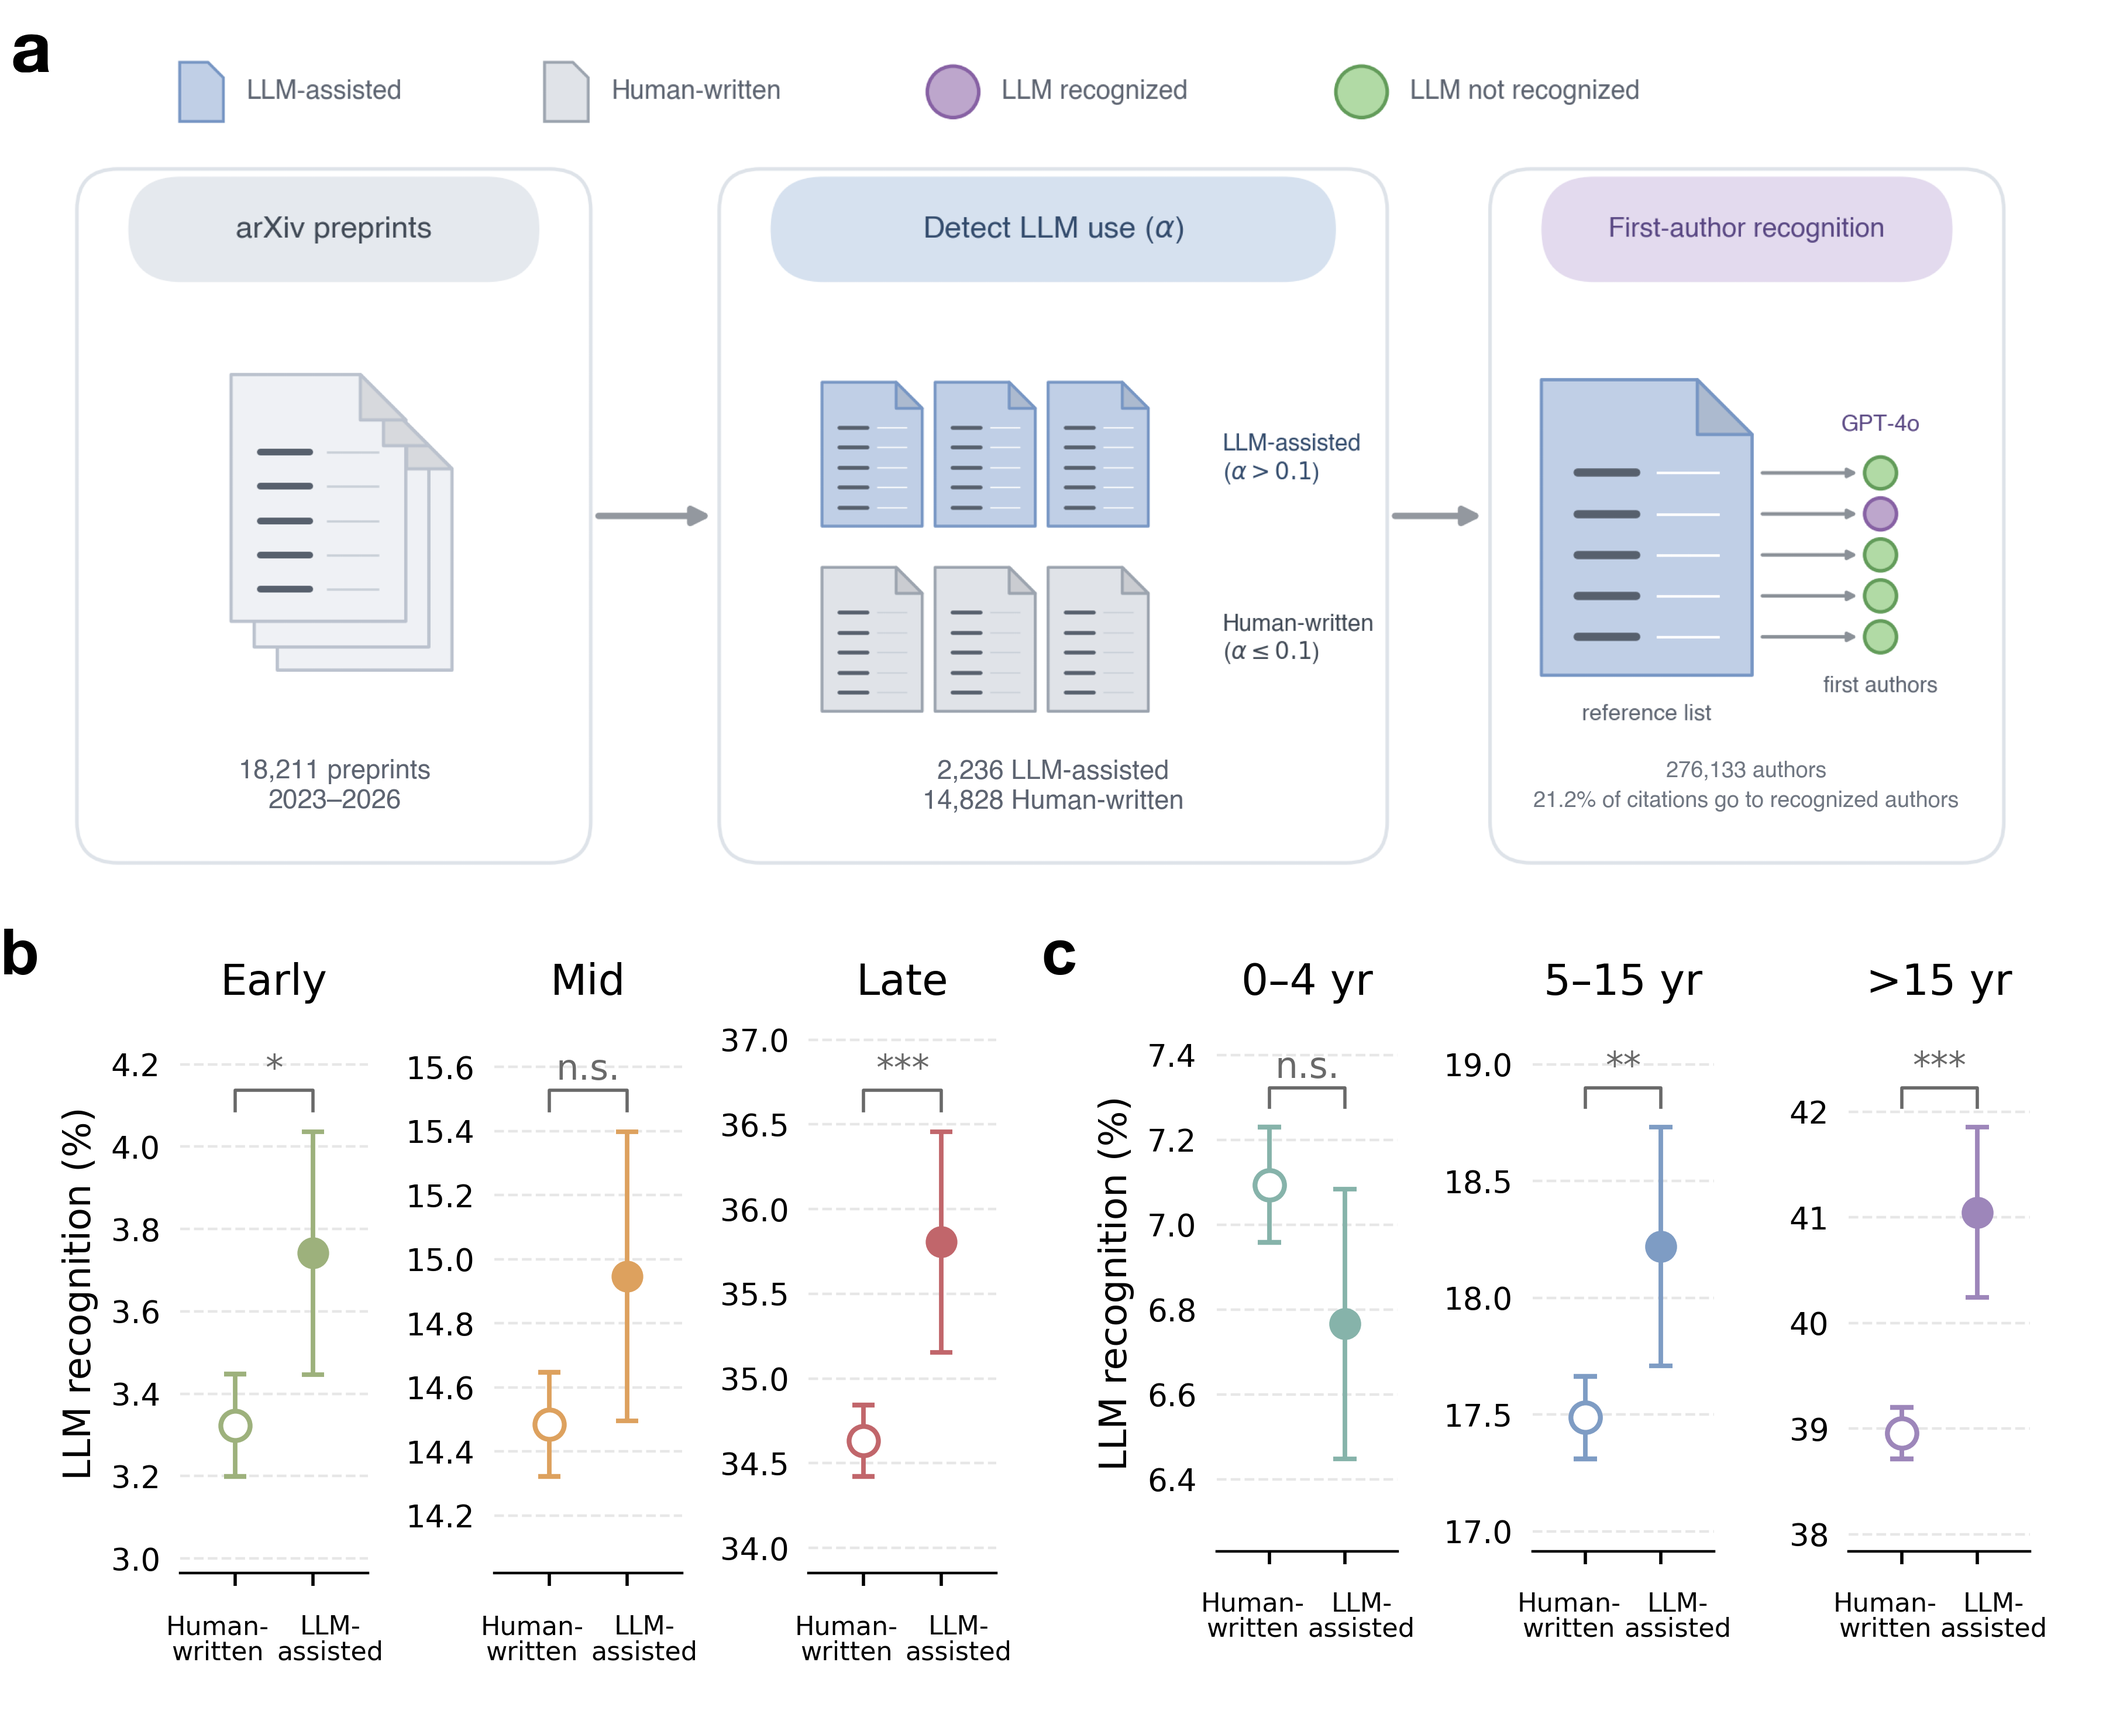
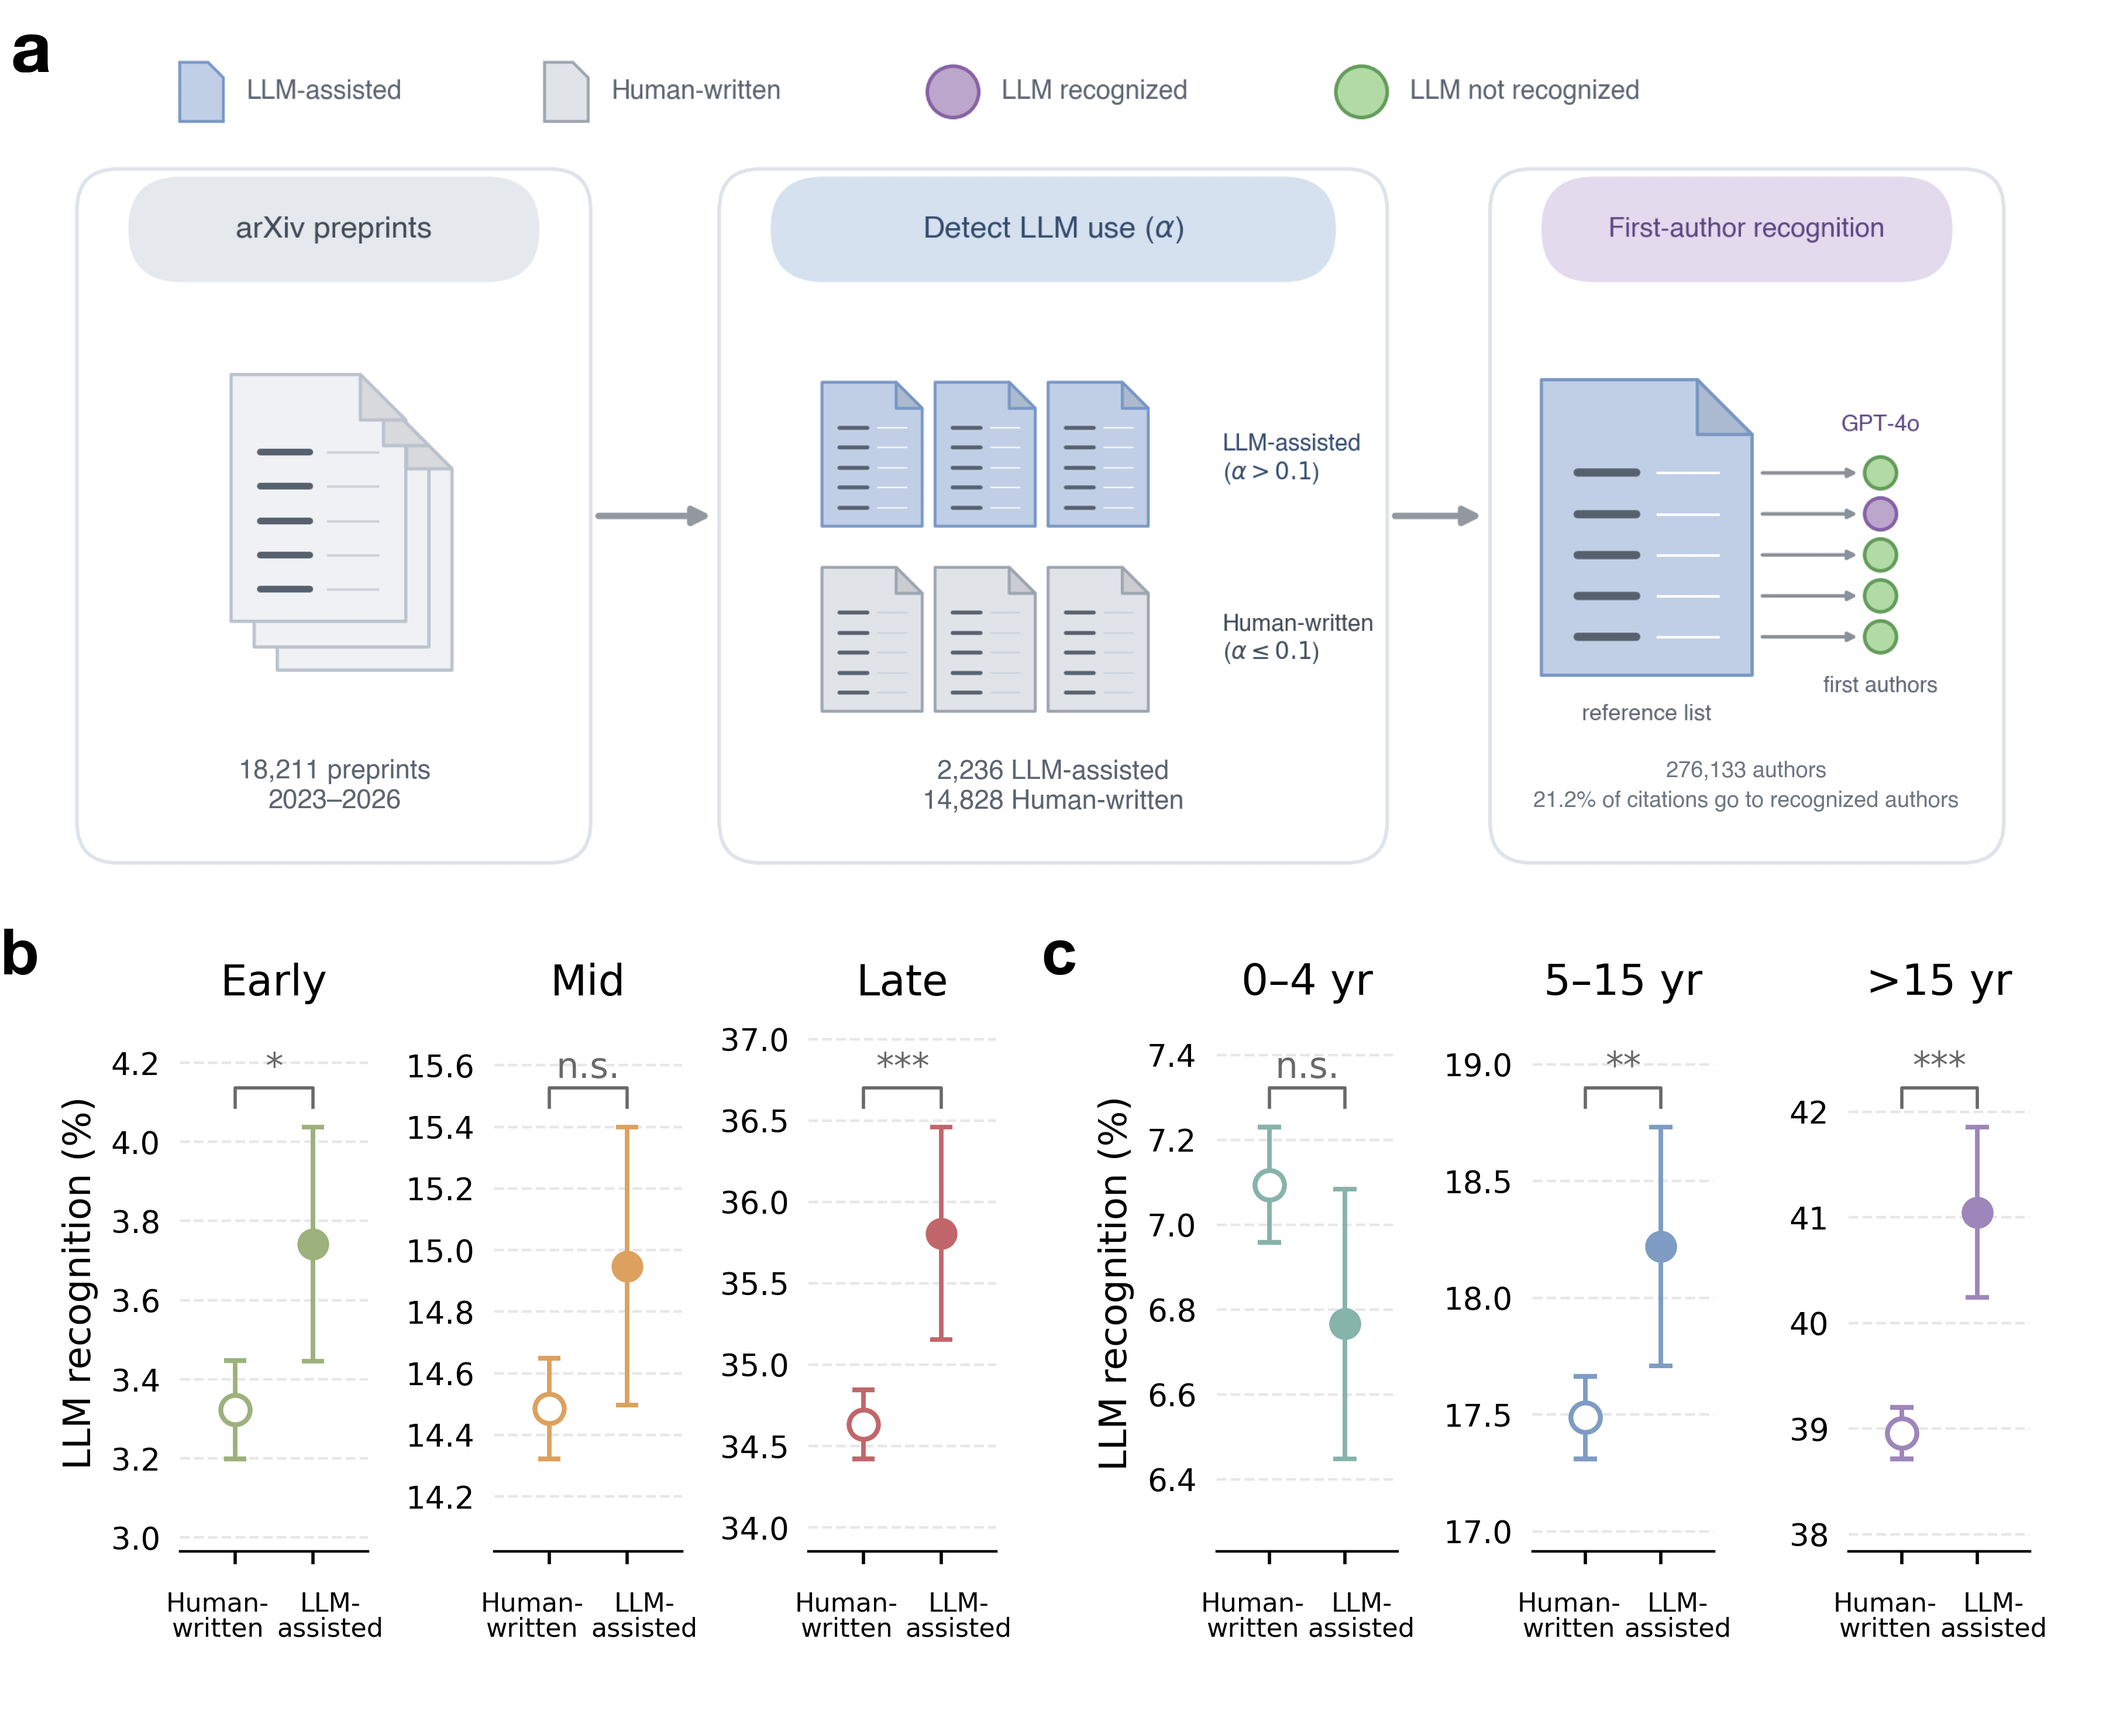
Fig. 5: align panels b and c top and bottom
All six point-range axes now share one vertical extent, so b and c have
their x axes and tops at the same height. Tick steps are limited to
1/2/5 so the Mid panel keeps one-decimal ticks.

diff --git a/fig5_citations/make_fig5.py b/fig5_citations/make_fig5.py
@@ -25,6 +25,7 @@ import warnings
 import matplotlib
 matplotlib.use("Agg")
 import matplotlib.pyplot as plt
+from matplotlib.ticker import MaxNLocator
 import numpy as np
 import pandas as pd
 import statsmodels.formula.api as smf
@@ -141,6 +142,7 @@ def draw(axes, groups, sub, k):
         ax.set_ylim(lo - 0.28 * span, yb + 0.22 * span)
         ax.plot([0, 0, 1, 1], [yb - 0.06 * span, yb, yb, yb - 0.06 * span], color="dimgray", lw=1 * k)
         ax.text(0.5, yb + 0.03 * span, star(q.p), ha="center", fontsize=11 * k, color="dimgray")
+        ax.yaxis.set_major_locator(MaxNLocator(steps=[1, 2, 5, 10]))   # no 2.5 steps (keeps one decimal)
         ax.set_xticks([0, 1]); ax.set_xticklabels([])
         ax.tick_params(axis="x", length=4 * k, width=1 * k, color="black", pad=3.5 * k)
         ax.tick_params(axis="y", labelsize=9.5 * k, pad=3.5 * k)
@@ -198,16 +200,23 @@ axa.text(2985, 1379, f"{100 * COUNTS['share_recog']:.1f}% of citations go to rec
          color=c2, **ta)
 
 # ---- b, c: refit margins, drawn as vector axes at the published size
+specs = []
 for groups, panel, x0, letter, first in [(STAGES, "b", PAD, "b", True), (REFAGE, "c", 2 * PAD + HALF, "c", False)]:
     sub = res[res.panel == panel]
     bb, boxes = layout(groups, sub, first)
     s = HALF / (bb.width * DPI)                          # px of the big canvas per px of the small panel
     hpx = bb.height * DPI * s
-    axes = []
+    rects = []
     for bx in boxes:
         X = x0 + (bx.x0 - bb.x0) * DPI * s
         Y = (H - YB - hpx) + (bx.y0 - bb.y0) * DPI * s   # from the bottom
-        axes.append(fig.add_axes([X / W, Y / H, bx.width * DPI * s / W, bx.height * DPI * s / H]))
+        rects.append([X, Y, bx.width * DPI * s, bx.height * DPI * s])
+    specs.append((groups, sub, s, letter, rects))
+# one vertical extent for all six axes, so b and c share their x axes and their tops
+bottom = max(r[1] for *_, rects in specs for r in rects)
+top = min(r[1] + r[3] for *_, rects in specs for r in rects)
+for groups, sub, s, letter, rects in specs:
+    axes = [fig.add_axes([X / W, bottom / H, w / W, (top - bottom) / H]) for X, _, w, _ in rects]
     draw(axes, groups, sub, s)
     fig.text((0 if letter == "b" else PAD + HALF + 9) / W, 1 - (YB - 40 + 22) / H, letter, fontsize=26.4,
              fontweight="bold", family=["Arial", "Helvetica", "DejaVu Sans"], va="top", ha="left")
